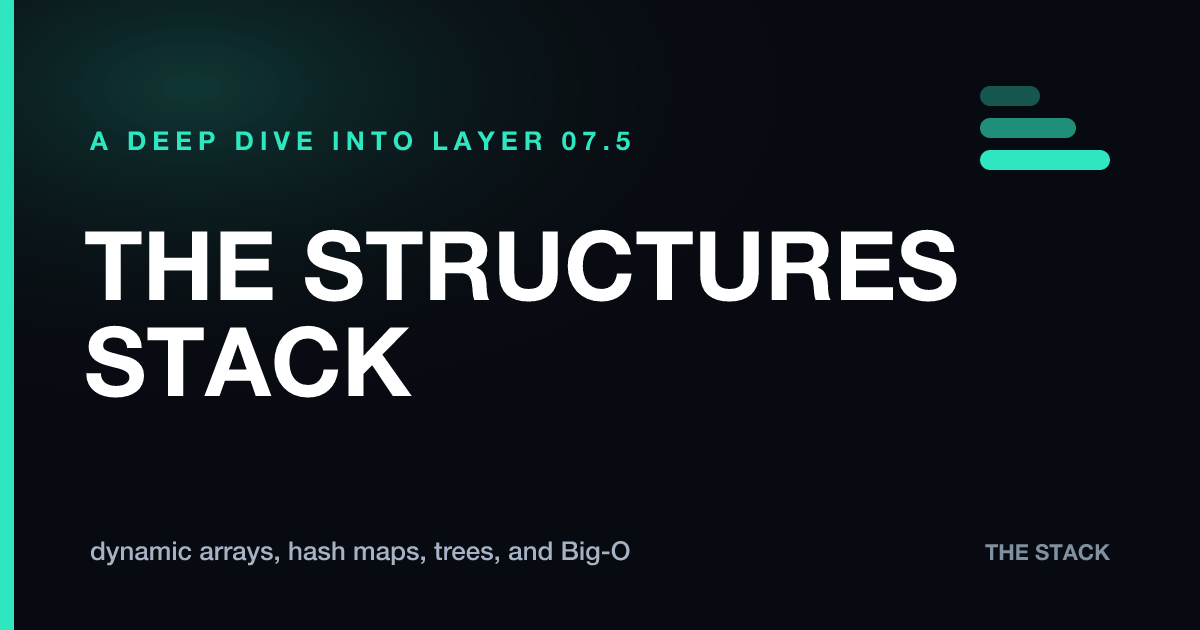
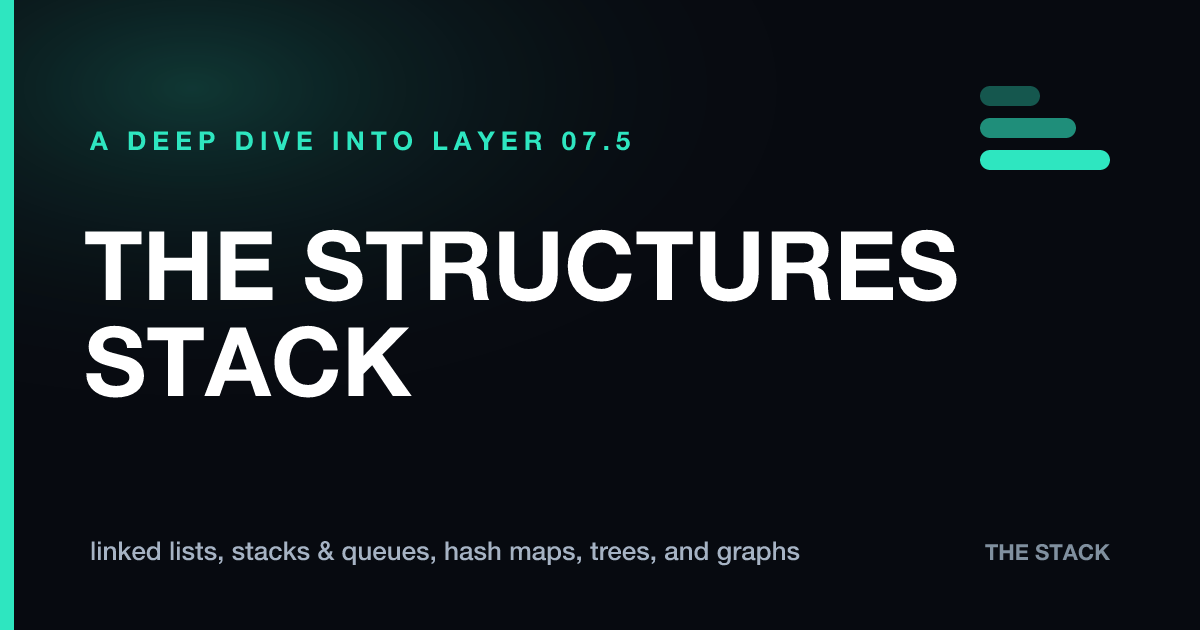
Grow /structures: add linked lists, stacks & queues, and graphs
The structures deep-dive jumped straight from arrays to hash maps, skipping
the foundational ADTs. Fills that gap, growing it from 5 sections to 8:
arrays → linked lists → dynamic arrays → stacks & queues → hash maps → trees
→ graphs → Big-O.

- buildLinkedList: splice a node by repointing — O(1), no shifting (new
  LinkedList.svelte).
- buildStackQueue: identical inputs through a stack (LIFO) and a queue
  (FIFO), diverging on removal (new StackQueue.svelte).
- buildGraphTraversal + GRAPH: breadth-first search over a small graph,
  using a queue for the frontier (new Graph.svelte, SVG).
- Big-O table gains a linked-list row; stacks.js blurb + OG card updated to
  the new contents.
- structLayers renumbered S0–S7; e2e updated for the shifted section IDs
  (dynamic array → #S2, hash map → #S4) and a new graph-BFS assertion.

All gates green: 198 unit tests, audit + axe (0 violations across 14 pages),
31 e2e tests passing.

Changed region(s): [[0.0617, 0.8444, 0.6783, 0.9048]]

diff --git a/src/lib/widgets.js b/src/lib/widgets.js
@@ -728,3 +728,63 @@ export function buildReplication() {
   snap('idle', 'this is eventual consistency: replicas converge, but a read in the gap sees stale data — strong consistency means reading the primary, giving up some of the scaling');
   return out;
 }
+
+// --- DATA STRUCTURES STACK (/structures), part 2: the linked ADTs ---
+
+// A linked list: nodes scattered in memory, each holding a value and a pointer
+// to the next. Inserting in the middle is two pointer writes — O(1) — where an
+// array would shift every later element. Returns the trace of inserting 15
+// between 10 and 20; `chain` is the ordered values, `staged` the new node.
+export function buildLinkedList() {
+  const out = [];
+  const snap = (chain, note, o = {}) => out.push({ chain: chain.slice(), staged: o.staged ?? null, highlight: o.highlight ?? null, note });
+  snap([10, 20, 30], 'a linked list is nodes scattered in memory; each holds a value and a pointer (→) to the next, so order comes from the links, not the layout');
+  snap([10, 20, 30], 'insert 15 after 10: first allocate the new node — it isn’t linked in yet', { staged: 15 });
+  snap([10, 20, 30], '15.next → 20: point the new node at whatever 10 currently points to', { staged: 15 });
+  snap([10, 15, 20, 30], '10.next → 15: redirect 10 to the new node. Two pointer writes, O(1) — nothing else moved', { highlight: 15 });
+  snap([10, 15, 20, 30], 'done: 10 → 15 → 20 → 30. An array would have shifted 20 and 30 to make room; the list just repointed');
+  return out;
+}
+
+// Stacks and queues: the same pushes, opposite removal order. A stack is LIFO
+// (pop the last in); a queue is FIFO (dequeue the first in). Runs identical
+// inputs through both so the divergence is the whole point. Returns snapshots
+// with both containers plus what each just removed.
+export function buildStackQueue() {
+  const out = [];
+  let stack = [], queue = [];
+  const snap = (note, o = {}) => out.push({ stack: stack.slice(), queue: queue.slice(), stackOut: o.stackOut ?? null, queueOut: o.queueOut ?? null, op: o.op ?? null, note });
+  snap('a stack and a queue, fed the exact same values — watch where each one removes from');
+  for (const v of [1, 2, 3]) { stack.push(v); queue.push(v); snap('push / enqueue ' + v + ' — both add to the back', { op: 'add' }); }
+  let s1 = stack.pop(), q1 = queue.shift();
+  snap('remove once: the stack pops ' + s1 + ' (last in, first out); the queue dequeues ' + q1 + ' (first in, first out)', { op: 'remove', stackOut: s1, queueOut: q1 });
+  let s2 = stack.pop(), q2 = queue.shift();
+  snap('remove again: stack pops ' + s2 + ', queue dequeues ' + q2 + ' — same inputs, mirror-image output order', { op: 'remove', stackOut: s2, queueOut: q2 });
+  snap('that’s the whole difference: a stack reverses, a queue preserves — LIFO vs FIFO, each built on an array or a linked list');
+  return out;
+}
+
+// A small undirected graph: nodes joined by edges, generalizing trees (which
+// forbid cycles). Adjacency in insertion order so traversal is deterministic.
+export const GRAPH = {
+  nodes: ['A', 'B', 'C', 'D', 'E'],
+  adj: { A: ['B', 'C'], B: ['A', 'D'], C: ['A', 'D', 'E'], D: ['B', 'C'], E: ['C'] },
+};
+// Breadth-first search from a start node: visit a node, enqueue its unseen
+// neighbours, repeat — exploring level by level using a queue (the same FIFO
+// from the stacks-and-queues section). Returns the visiting order trace.
+export function buildGraphTraversal({ start = 'A' } = {}) {
+  const out = [];
+  const visited = [], queue = [start], enqueued = new Set([start]);
+  const snap = (current, note) => out.push({ current, visited: visited.slice(), queue: queue.slice(), note });
+  snap(null, 'breadth-first search from ' + start + ': a queue holds the frontier; we visit a node, then enqueue any neighbour we haven’t seen');
+  while (queue.length) {
+    const node = queue.shift();
+    visited.push(node);
+    const fresh = GRAPH.adj[node].filter((n) => !enqueued.has(n));
+    fresh.forEach((n) => { enqueued.add(n); queue.push(n); });
+    snap(node, 'visit ' + node + (fresh.length ? ' → enqueue its new neighbours: ' + fresh.join(', ') : ' → no new neighbours; its links were already seen'));
+  }
+  snap(null, 'visited in order ' + visited.join(' → ') + ' — BFS fans out level by level, which is why it finds the shortest path in hops');
+  return out;
+}

diff --git a/src/components/Graph.svelte b/src/components/Graph.svelte
@@ -1,0 +1,54 @@
+<script>
+  import { useStepper } from '../lib/stepper.svelte.js';
+  import { buildGraphTraversal } from '../lib/widgets.js';
+  import Stepper from './Stepper.svelte';
+  const stepper = useStepper(() => buildGraphTraversal(), { speed: 1000 });
+  const { idx } = stepper;
+  let s = $derived(stepper.all()[$idx]);
+  const POS = { A: [55, 100], B: [150, 38], C: [150, 162], D: [255, 70], E: [270, 160] };
+  const EDGES = [['A', 'B'], ['A', 'C'], ['B', 'D'], ['C', 'D'], ['C', 'E']];
+  const state = (n) => (n === s.current ? 'cur' : s.visited.includes(n) ? 'seen' : s.queue.includes(n) ? 'queued' : 'unseen');
+</script>
+<div class="widget">
+  <div class="csbar">
+    <span class="csmini">graph · breadth-first search</span>
+    <span class="spacer"></span>
+    <span class="csmini">visited: {s.visited.length ? s.visited.join(' ') : '—'}</span>
+  </div>
+  <div class="w-label">step the BFS — a queue holds the frontier, exploring level by level</div>
+  <svg class="gr" viewBox="0 0 320 200" role="img" aria-label="graph traversal">
+    {#each EDGES as [a, b]}
+      <line x1={POS[a][0]} y1={POS[a][1]} x2={POS[b][0]} y2={POS[b][1]} class="gr-edge" />
+    {/each}
+    {#each Object.entries(POS) as [n, [x, y]]}
+      <g class="gr-node {state(n)}">
+        <circle cx={x} cy={y} r="18" />
+        <text {x} y={y + 5} text-anchor="middle">{n}</text>
+      </g>
+    {/each}
+  </svg>
+  <div class="gr-queue">
+    <span class="gr-qlab">queue (frontier):</span>
+    {#if s.queue.length}{#each s.queue as q}<span class="gr-chip">{q}</span>{/each}{:else}<span class="gr-empty">empty</span>{/if}
+  </div>
+  <div class="csnote" role="status" aria-live="polite">{s.note}</div>
+  <Stepper {stepper} />
+</div>
+
+<style>
+  .gr{width:100%;max-width:420px;display:block;margin:0 auto;height:auto}
+  .gr-edge{stroke:var(--border);stroke-width:2}
+  .gr-node circle{fill:var(--surface);stroke:var(--faint);stroke-width:2;transition:.18s}
+  .gr-node text{fill:var(--dim);font-family:var(--mono);font-weight:700;font-size:14px}
+  .gr-node.unseen circle{fill:var(--surface);stroke:var(--border)}
+  .gr-node.queued circle{stroke:var(--amber);fill:var(--amber-d)}
+  .gr-node.queued text{fill:var(--amber)}
+  .gr-node.seen circle{stroke:var(--signal);fill:var(--signal-d)}
+  .gr-node.seen text{fill:var(--signal)}
+  .gr-node.cur circle{stroke:var(--blue);fill:var(--blue-d);stroke-width:3}
+  .gr-node.cur text{fill:var(--blue)}
+  .gr-queue{display:flex;align-items:center;gap:8px;justify-content:center;flex-wrap:wrap;font-family:var(--mono);margin-top:6px}
+  .gr-qlab{font-size:12px;color:var(--faint)}
+  .gr-chip{min-width:26px;height:26px;display:inline-flex;align-items:center;justify-content:center;border:1px solid var(--amber);border-radius:7px;color:var(--amber);background:var(--amber-d);font-weight:700;font-size:13px}
+  .gr-empty{font-size:12px;color:var(--faint)}
+</style>

diff --git a/src/components/StackQueue.svelte b/src/components/StackQueue.svelte
@@ -1,0 +1,48 @@
+<script>
+  import { useStepper } from '../lib/stepper.svelte.js';
+  import { buildStackQueue } from '../lib/widgets.js';
+  import Stepper from './Stepper.svelte';
+  const stepper = useStepper(() => buildStackQueue(), { speed: 1000 });
+  const { idx } = stepper;
+  let s = $derived(stepper.all()[$idx]);
+</script>
+<div class="widget">
+  <div class="csbar"><span class="csmini">same inputs · opposite removal order</span></div>
+  <div class="w-label">step push then remove — the stack reverses, the queue preserves</div>
+  <div class="sq-grid">
+    <div class="sq-col">
+      <div class="sq-head">Stack <span>LIFO · push/pop the top</span></div>
+      <div class="sq-cells">
+        {#each s.stack as v}<span class="sq-cell stk">{v}</span>{/each}
+        {#if s.stack.length === 0}<span class="sq-empty">empty</span>{/if}
+      </div>
+      <div class="sq-out" class:on={s.stackOut != null}>{s.stackOut != null ? 'popped → ' + s.stackOut : ''}</div>
+    </div>
+    <div class="sq-col">
+      <div class="sq-head">Queue <span>FIFO · enqueue back, dequeue front</span></div>
+      <div class="sq-cells">
+        {#each s.queue as v, i}<span class="sq-cell que" class:front={i === 0}>{v}</span>{/each}
+        {#if s.queue.length === 0}<span class="sq-empty">empty</span>{/if}
+      </div>
+      <div class="sq-out" class:on={s.queueOut != null}>{s.queueOut != null ? 'dequeued → ' + s.queueOut : ''}</div>
+    </div>
+  </div>
+  <div class="csnote" role="status" aria-live="polite">{s.note}</div>
+  <Stepper {stepper} />
+</div>
+
+<style>
+  .sq-grid{display:grid;grid-template-columns:1fr 1fr;gap:18px;font-family:var(--mono)}
+  @media(max-width:520px){.sq-grid{grid-template-columns:1fr}}
+  .sq-col{border:1px solid var(--border);border-radius:12px;padding:14px;background:var(--surface)}
+  .sq-head{font-weight:700;color:var(--ink);font-size:14px;display:flex;flex-direction:column;gap:2px;margin-bottom:12px}
+  .sq-head span{font-size:11px;font-weight:400;color:var(--faint)}
+  .sq-cells{display:flex;gap:6px;flex-wrap:wrap;min-height:40px;align-items:center}
+  .sq-cell{width:36px;height:36px;display:flex;align-items:center;justify-content:center;border-radius:8px;font-weight:700;border:1px solid}
+  .sq-cell.stk{border-color:var(--violet);color:var(--violet);background:var(--violet-d)}
+  .sq-cell.que{border-color:var(--blue);color:var(--blue);background:var(--blue-d)}
+  .sq-cell.que.front{box-shadow:0 0 12px var(--blue-d);border-width:2px}
+  .sq-empty{font-size:12px;color:var(--faint)}
+  .sq-out{min-height:20px;margin-top:10px;font-size:13px;color:var(--faint)}
+  .sq-out.on{color:var(--signal);font-weight:700}
+</style>

diff --git a/src/lib/widgets.test.js b/src/lib/widgets.test.js
@@ -1,5 +1,5 @@
 import { describe, it, expect } from 'vitest';
-import { buildCpu, buildEnc, buildPkt, buildCloudHops, PACKET_FRAGMENTS, decodeMiniFloat, buildRace, buildRouting, buildDns, buildLex, buildVm, invalidatedStages, toyHash, modpow, buildDiffieHellman, buildBTreeSearch, buildTransaction, buildCache, buildAddressTranslation, buildSyscall, buildDynamicArray, buildHashMap, twosValue, buildTwosComplement, buildFloatGrid, buildFloatSum, DOPING, buildDiode, cmosInverter, ALU_OPS, computeAlu, PIPE_STAGES, buildPipeline, buildDeadlock, buildCas, buildLoadBalancer, buildReplication } from './widgets.js';
+import { buildCpu, buildEnc, buildPkt, buildCloudHops, PACKET_FRAGMENTS, decodeMiniFloat, buildRace, buildRouting, buildDns, buildLex, buildVm, invalidatedStages, toyHash, modpow, buildDiffieHellman, buildBTreeSearch, buildTransaction, buildCache, buildAddressTranslation, buildSyscall, buildDynamicArray, buildHashMap, twosValue, buildTwosComplement, buildFloatGrid, buildFloatSum, DOPING, buildDiode, cmosInverter, ALU_OPS, computeAlu, PIPE_STAGES, buildPipeline, buildDeadlock, buildCas, buildLoadBalancer, buildReplication, buildLinkedList, buildStackQueue, GRAPH, buildGraphTraversal } from './widgets.js';
 
 const popcount = (n) => { let c = 0; n >>>= 0; while (n) { c += n & 1; n >>>= 1; } return c; };
 
@@ -506,6 +506,44 @@ describe('buildReplication (read replicas / eventual consistency)', () => {
     const last = steps[steps.length - 1];
     expect(last.primary).toBe(1);
     expect(last.replicas.every((r) => r.v === 1)).toBe(true);
+  });
+});
+
+describe('buildLinkedList (pointer insert)', () => {
+  const steps = buildLinkedList();
+  it('inserts 15 between 10 and 20 by repointing — final order 10,15,20,30', () => {
+    expect(steps[steps.length - 1].chain).toEqual([10, 15, 20, 30]);
+  });
+  it('stages the new node before it is linked in', () => {
+    expect(steps.some((s) => s.staged === 15 && !s.chain.includes(15))).toBe(true);
+  });
+});
+
+describe('buildStackQueue (LIFO vs FIFO)', () => {
+  const steps = buildStackQueue();
+  const removes = steps.filter((s) => s.op === 'remove');
+  it('the stack pops last-in-first-out (3 then 2)', () => {
+    expect(removes.map((s) => s.stackOut)).toEqual([3, 2]);
+  });
+  it('the queue removes first-in-first-out (1 then 2)', () => {
+    expect(removes.map((s) => s.queueOut)).toEqual([1, 2]);
+  });
+  it('after two removals, the stack keeps 1 and the queue keeps 3', () => {
+    const last = steps[steps.length - 1];
+    expect(last.stack).toEqual([1]);
+    expect(last.queue).toEqual([3]);
+  });
+});
+
+describe('buildGraphTraversal (BFS)', () => {
+  const steps = buildGraphTraversal();
+  it('visits breadth-first from A in order A,B,C,D,E', () => {
+    expect(steps[steps.length - 1].visited).toEqual(['A', 'B', 'C', 'D', 'E']);
+  });
+  it('every node is reached exactly once', () => {
+    const visits = steps.filter((s) => s.current).map((s) => s.current);
+    expect(new Set(visits).size).toBe(GRAPH.nodes.length);
+    expect(visits).toHaveLength(GRAPH.nodes.length);
   });
 });
 

diff --git a/src/components/LinkedList.svelte b/src/components/LinkedList.svelte
@@ -1,0 +1,39 @@
+<script>
+  import { useStepper } from '../lib/stepper.svelte.js';
+  import { buildLinkedList } from '../lib/widgets.js';
+  import Stepper from './Stepper.svelte';
+  const stepper = useStepper(() => buildLinkedList(), { speed: 1100 });
+  const { idx } = stepper;
+  let s = $derived(stepper.all()[$idx]);
+</script>
+<div class="widget">
+  <div class="csbar"><span class="csmini">linked list · insert in the middle is O(1)</span></div>
+  <div class="w-label">step the insert — two pointer writes splice in a node, no shifting</div>
+  {#if s.staged != null}
+    <div class="ll-staged">
+      <span class="ll-node new">{s.staged}<small>new</small></span>
+      <span class="ll-staged-lab">allocated, not yet linked</span>
+    </div>
+  {/if}
+  <div class="ll-chain">
+    {#each s.chain as v, i}
+      <span class="ll-node" class:hot={v === s.highlight}>{v}</span>
+      {#if i < s.chain.length - 1}<span class="ll-ptr">→</span>{/if}
+    {/each}
+    <span class="ll-ptr">→</span><span class="ll-null">∅</span>
+  </div>
+  <div class="csnote" role="status" aria-live="polite">{s.note}</div>
+  <Stepper {stepper} />
+</div>
+
+<style>
+  .ll-staged{display:flex;align-items:center;gap:12px;justify-content:center;margin-bottom:14px;font-family:var(--mono)}
+  .ll-staged-lab{font-size:12px;color:var(--faint)}
+  .ll-chain{display:flex;align-items:center;gap:8px;flex-wrap:wrap;justify-content:center;font-family:var(--mono);min-height:48px}
+  .ll-node{display:flex;flex-direction:column;align-items:center;justify-content:center;min-width:44px;height:44px;border:1px solid var(--blue);border-radius:10px;color:var(--blue);background:var(--blue-d);font-weight:700;transition:.18s}
+  .ll-node small{font-size:9px;font-weight:400;color:var(--faint)}
+  .ll-node.new{border-color:var(--signal);color:var(--signal);background:var(--signal-d)}
+  .ll-node.hot{border-color:var(--signal);color:var(--signal);background:var(--signal-d);box-shadow:0 0 14px var(--signal-d)}
+  .ll-ptr{color:var(--faint);font-size:18px}
+  .ll-null{color:var(--faint);font-size:18px}
+</style>

diff --git a/src/data/structLayers.js b/src/data/structLayers.js
@@ -2,8 +2,11 @@
 // shared engine (Base nav, LayerSection, scroll-spy) powers it unchanged.
 export const structLayers = [
   { id: 'S0', num: '00', navLabel: 'Arrays', zone: 'system', title: 'Arrays: neighbours in a row', sub: 'structures · contiguous memory · O(1) index' },
-  { id: 'S1', num: '01', navLabel: 'Dynamic arrays', zone: 'system', title: 'Dynamic arrays: growing without knowing the size', sub: 'structures · doubling · amortized append' },
-  { id: 'S2', num: '02', navLabel: 'Hash maps', zone: 'system', title: 'Hash maps: a key becomes an address', sub: 'structures · hashing · collisions · chaining' },
-  { id: 'S3', num: '03', navLabel: 'Trees', zone: 'system', title: 'Trees: keep it ordered, search by halving', sub: 'structures · nodes · branches · O(log n)' },
-  { id: 'S4', num: '04', navLabel: 'Big-O', zone: 'all', title: 'Big-O: every structure picks its poison', sub: 'the trade-off · what each shape makes cheap' },
+  { id: 'S1', num: '01', navLabel: 'Linked lists', zone: 'system', title: 'Linked lists: order from pointers, not place', sub: 'structures · nodes · pointers · O(1) splice' },
+  { id: 'S2', num: '02', navLabel: 'Dynamic arrays', zone: 'system', title: 'Dynamic arrays: growing without knowing the size', sub: 'structures · doubling · amortized append' },
+  { id: 'S3', num: '03', navLabel: 'Stacks & queues', zone: 'system', title: 'Stacks & queues: order is the whole idea', sub: 'structures · LIFO · FIFO' },
+  { id: 'S4', num: '04', navLabel: 'Hash maps', zone: 'system', title: 'Hash maps: a key becomes an address', sub: 'structures · hashing · collisions · chaining' },
+  { id: 'S5', num: '05', navLabel: 'Trees', zone: 'system', title: 'Trees: keep it ordered, search by halving', sub: 'structures · nodes · branches · O(log n)' },
+  { id: 'S6', num: '06', navLabel: 'Graphs', zone: 'system', title: 'Graphs: anything connected to anything', sub: 'structures · nodes · edges · traversal' },
+  { id: 'S7', num: '07', navLabel: 'Big-O', zone: 'all', title: 'Big-O: every structure picks its poison', sub: 'the trade-off · what each shape makes cheap' },
 ];

diff --git a/src/data/stacks.js b/src/data/stacks.js
@@ -10,7 +10,7 @@ export const stacks = [
   { slug: 'compiler', name: 'Compiler', kind: 'stack', layer: '05.5', accent: '#a78bfa', blurb: 'lexing, parsing, bytecode, and a tiny VM' },
   { slug: 'cpu', name: 'CPU', kind: 'stack', layer: '06', accent: '#5b9dff', blurb: 'registers, fetch-decode-execute, the ALU, pipelining, and the clock' },
   { slug: 'memory', name: 'Memory', kind: 'stack', layer: '06.5', accent: '#5b9dff', blurb: 'caches, the hierarchy, virtual memory, and the TLB' },
-  { slug: 'structures', name: 'Structures', kind: 'stack', layer: '07.5', accent: '#2ee6c0', blurb: 'dynamic arrays, hash maps, trees, and Big-O' },
+  { slug: 'structures', name: 'Structures', kind: 'stack', layer: '07.5', accent: '#2ee6c0', blurb: 'linked lists, stacks & queues, hash maps, trees, and graphs' },
   { slug: 'os', name: 'OS', kind: 'stack', layer: '08', accent: '#5b9dff', blurb: 'the scheduler, context switches, syscalls, and interrupts' },
   { slug: 'concurrency', name: 'Concurrency', kind: 'stack', layer: '08.2', accent: '#a78bfa', blurb: 'threads, race conditions, deadlock, and lock-free atomics' },
   { slug: 'crypto', name: 'Crypto', kind: 'stack', layer: '08.5', accent: '#ff6b6b', blurb: 'hashing, keys, key exchange, certificates, and TLS' },

diff --git a/README.md b/README.md
@@ -68,7 +68,7 @@ src/
     database.astro        a /database deep-dive (tables → indexes → queries → txns → replication)
     memory.astro          a /memory deep-dive (addresses → cache → hierarchy → virtual memory → TLB)
     os.astro              an /os deep-dive (processes → scheduler → context switch → syscalls → interrupts)
-    structures.astro      a /structures deep-dive (arrays → dynamic arrays → hash maps → trees → big-O)
+    structures.astro      a /structures deep-dive (arrays → linked lists → stacks/queues → hash maps → trees → graphs → big-O)
     numbers.astro         a /numbers deep-dive (place value → two's complement → IEEE-754 → precision → 0.1+0.2)
     cpu.astro             a /cpu deep-dive (registers → cycle → ALU → pipelining → hazards → the clock)
     concurrency.astro     a /concurrency deep-dive (threads → races → deadlock → atomics → why it's hard)